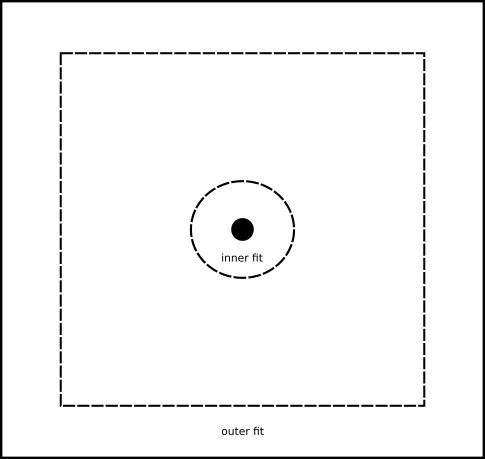
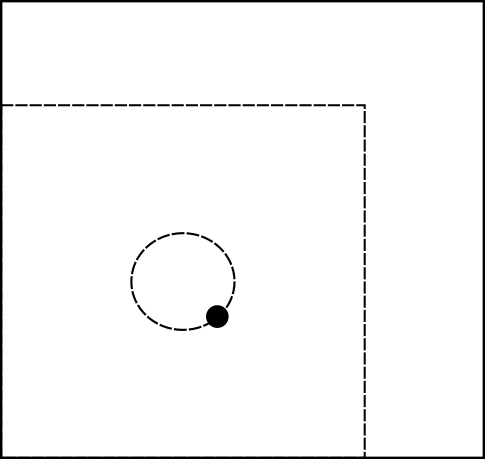
content

diff --git a/docs/agent/cognition/index.html b/docs/agent/cognition/index.html
@@ -3,7 +3,8 @@
 <head>
   <meta charset="UTF-8">
 <meta name="viewport" content="width=device-width, initial-scale=1.0">
-<meta name="description" content="cognition #  topology #  actuator #  fit #  geometry #  spotlight #  hologram #  ">
+<meta name="description" content="cognition #  Cognition explores what makes an agent tick. Like analog clocks, agents can target paths that connect inner fits to outter fits through actuation. The pendulum of a clock swings at an internal frequency which can be compared to an external frequency like the revolution of the earth around the sun.
+Both the spotlight and holographic models of consciousness appear to have partial truth. The spotlight being associated with focused attention and the hologram with diffuse attention across a field.">
 <meta name="theme-color" content="#FFFFFF">
 <meta name="color-scheme" content="light dark"><meta property="og:title" content="" />
 <meta property="og:description" content="" />
@@ -15,7 +16,7 @@
 <link rel="icon" href="/volution/favicon.png" type="image/x-icon">
 <link rel="stylesheet" href="/volution/book.min.82c5dbd23447cee0b4c2aa3ed08ce0961faa40e1fa370eee4f8c9f02e0d46b5f.css" integrity="sha256-gsXb0jRHzuC0wqo&#43;0Izglh&#43;qQOH6Nw7uT4yfAuDUa18=" crossorigin="anonymous">
   <script defer src="/volution/flexsearch.min.js"></script>
-  <script defer src="/volution/en.search.min.68cc1bed1c1454bfbc97956c9b30a424d9decbb2a66f1f1207955e0dc1c5852e.js" integrity="sha256-aMwb7RwUVL&#43;8l5VsmzCkJNney7Kmbx8SB5VeDcHFhS4=" crossorigin="anonymous"></script>
+  <script defer src="/volution/en.search.min.990aa656e69024efd129b4613b7f4ae2cfcf9fdfc4c112afa3d8b263180b62ac.js" integrity="sha256-mQqmVuaQJO/RKbRhO39K4s/Pn9/EwRKvo9iyYxgLYqw=" crossorigin="anonymous"></script>
 <link rel="alternate" type="application/rss+xml" href="https://daylenjbonner.github.io/volution/docs/agent/cognition/index.xml" title="Volution" />
 <!--
 Made with Book Theme
@@ -249,15 +250,19 @@ https://github.com/alex-shpak/hugo-book
   cognition
   <a class="anchor" href="#cognition">#</a>
 </h1>
+<p>Cognition explores what makes an agent tick. Like analog clocks, agents can target paths that connect inner fits to outter fits through actuation. The pendulum of a clock swings at an internal frequency which can be compared to an external frequency like the revolution of the earth around the sun.</p>
+<p>Both the spotlight and holographic models of consciousness appear to have partial truth. The spotlight being associated with focused attention and the hologram with diffuse attention across a field. Agents can both peer into the narrowest scope and meditate upon the vastest horizons.</p>
 <h2 id="topology">
   topology
   <a class="anchor" href="#topology">#</a>
 </h2>
+<p>No cutting or gluing is allowed in topology. So topological distictions may be used to identify various tile states. Gluing together every layer of the record player produces a state called actuation. Fits glue maps to structures in the case of an external fit and frames to points in the case of internal fits.</p>
 <h3 id="actuator">
   actuator
   <a class="anchor" href="#actuator">#</a>
 </h3>
-<p><img src="actuator.png" alt="actuator" /></p>
+<p><img src="actuator.png" alt="actuator" />
+Actuation glues external and internal fits to the agent. This aligns with a state of flow. In the mist of an activity that is engaging yet smooth for you, it may feel as if time is flowing quickly. In volution, actuation or flow is considered a state where everything is connected topologically indicating an alignment between what the agent considers out and in.</p>
 <h3 id="fit">
   fit
   <a class="anchor" href="#fit">#</a>

diff --git a/en.search.min.990aa656e69024efd129b4613b7f4ae2cfcf9fdfc4c112afa3d8b263180b62ac.js b/en.search.min.990aa656e69024efd129b4613b7f4ae2cfcf9fdfc4c112afa3d8b263180b62ac.js
@@ -1,0 +1,1 @@
+'use strict';(function(){const g='/volution/en.search-data.min.b4f3eeb0b88e00d4f9eae793ecce7379f7bae74ff79dce9bb9c8bd5231818a35.json',h=Object.assign({cache:!0},{doc:{id:'id',field:['title','content'],store:['title','href','section']}}),a=document.querySelector('#book-search-input'),b=document.querySelector('#book-search-results');if(!a)return;a.addEventListener('focus',c),a.addEventListener('keyup',d),document.addEventListener('keypress',e);function e(b){if(b.target.value!==void 0)return;if(a===document.activeElement)return;const c=String.fromCharCode(b.charCode);if(!f(c))return;a.focus(),b.preventDefault()}function f(b){const c=a.getAttribute('data-hotkeys')||'';return c.indexOf(b)>=0}function c(){a.removeEventListener('focus',c),a.required=!0,fetch(g).then(a=>a.json()).then(a=>{window.bookSearchIndex=FlexSearch.create('balance',h),window.bookSearchIndex.add(a)}).then(()=>a.required=!1).then(d)}function d(){while(b.firstChild)b.removeChild(b.firstChild);if(!a.value)return;const c=window.bookSearchIndex.search(a.value,10);c.forEach(function(a){const c=i('<li><a href></a><small></small></li>'),d=c.querySelector('a'),e=c.querySelector('small');d.href=a.href,d.textContent=a.title,e.textContent=a.section,b.appendChild(c)})}function i(b){const a=document.createElement('div');return a.innerHTML=b,a.firstChild}})()

diff --git a/docs/agent/index.html b/docs/agent/index.html
@@ -16,7 +16,7 @@ If the agent, frame, and point form a record, then the structure and map make up
 <link rel="icon" href="/volution/favicon.png" type="image/x-icon">
 <link rel="stylesheet" href="/volution/book.min.82c5dbd23447cee0b4c2aa3ed08ce0961faa40e1fa370eee4f8c9f02e0d46b5f.css" integrity="sha256-gsXb0jRHzuC0wqo&#43;0Izglh&#43;qQOH6Nw7uT4yfAuDUa18=" crossorigin="anonymous">
   <script defer src="/volution/flexsearch.min.js"></script>
-  <script defer src="/volution/en.search.min.68cc1bed1c1454bfbc97956c9b30a424d9decbb2a66f1f1207955e0dc1c5852e.js" integrity="sha256-aMwb7RwUVL&#43;8l5VsmzCkJNney7Kmbx8SB5VeDcHFhS4=" crossorigin="anonymous"></script>
+  <script defer src="/volution/en.search.min.990aa656e69024efd129b4613b7f4ae2cfcf9fdfc4c112afa3d8b263180b62ac.js" integrity="sha256-mQqmVuaQJO/RKbRhO39K4s/Pn9/EwRKvo9iyYxgLYqw=" crossorigin="anonymous"></script>
 <link rel="alternate" type="application/rss+xml" href="https://daylenjbonner.github.io/volution/docs/agent/index.xml" title="Volution" />
 <!--
 Made with Book Theme

diff --git a/index.html b/index.html
@@ -17,7 +17,7 @@ what is volution? #  dialectic #  As mentioned above, volution is conscidered a 
 <link rel="icon" href="/volution/favicon.png" type="image/x-icon">
 <link rel="stylesheet" href="/volution/book.min.82c5dbd23447cee0b4c2aa3ed08ce0961faa40e1fa370eee4f8c9f02e0d46b5f.css" integrity="sha256-gsXb0jRHzuC0wqo&#43;0Izglh&#43;qQOH6Nw7uT4yfAuDUa18=" crossorigin="anonymous">
   <script defer src="/volution/flexsearch.min.js"></script>
-  <script defer src="/volution/en.search.min.68cc1bed1c1454bfbc97956c9b30a424d9decbb2a66f1f1207955e0dc1c5852e.js" integrity="sha256-aMwb7RwUVL&#43;8l5VsmzCkJNney7Kmbx8SB5VeDcHFhS4=" crossorigin="anonymous"></script>
+  <script defer src="/volution/en.search.min.990aa656e69024efd129b4613b7f4ae2cfcf9fdfc4c112afa3d8b263180b62ac.js" integrity="sha256-mQqmVuaQJO/RKbRhO39K4s/Pn9/EwRKvo9iyYxgLYqw=" crossorigin="anonymous"></script>
 <link rel="alternate" type="application/rss+xml" href="https://daylenjbonner.github.io/volution/index.xml" title="Volution" />
 <!--
 Made with Book Theme

diff --git a/docs/ground/cause/index.html b/docs/ground/cause/index.html
@@ -15,7 +15,7 @@
 <link rel="icon" href="/volution/favicon.png" type="image/x-icon">
 <link rel="stylesheet" href="/volution/book.min.82c5dbd23447cee0b4c2aa3ed08ce0961faa40e1fa370eee4f8c9f02e0d46b5f.css" integrity="sha256-gsXb0jRHzuC0wqo&#43;0Izglh&#43;qQOH6Nw7uT4yfAuDUa18=" crossorigin="anonymous">
   <script defer src="/volution/flexsearch.min.js"></script>
-  <script defer src="/volution/en.search.min.68cc1bed1c1454bfbc97956c9b30a424d9decbb2a66f1f1207955e0dc1c5852e.js" integrity="sha256-aMwb7RwUVL&#43;8l5VsmzCkJNney7Kmbx8SB5VeDcHFhS4=" crossorigin="anonymous"></script>
+  <script defer src="/volution/en.search.min.990aa656e69024efd129b4613b7f4ae2cfcf9fdfc4c112afa3d8b263180b62ac.js" integrity="sha256-mQqmVuaQJO/RKbRhO39K4s/Pn9/EwRKvo9iyYxgLYqw=" crossorigin="anonymous"></script>
 <link rel="alternate" type="application/rss+xml" href="https://daylenjbonner.github.io/volution/docs/ground/cause/index.xml" title="Volution" />
 <!--
 Made with Book Theme

diff --git a/docs/ground/path/index.html b/docs/ground/path/index.html
@@ -15,7 +15,7 @@
 <link rel="icon" href="/volution/favicon.png" type="image/x-icon">
 <link rel="stylesheet" href="/volution/book.min.82c5dbd23447cee0b4c2aa3ed08ce0961faa40e1fa370eee4f8c9f02e0d46b5f.css" integrity="sha256-gsXb0jRHzuC0wqo&#43;0Izglh&#43;qQOH6Nw7uT4yfAuDUa18=" crossorigin="anonymous">
   <script defer src="/volution/flexsearch.min.js"></script>
-  <script defer src="/volution/en.search.min.68cc1bed1c1454bfbc97956c9b30a424d9decbb2a66f1f1207955e0dc1c5852e.js" integrity="sha256-aMwb7RwUVL&#43;8l5VsmzCkJNney7Kmbx8SB5VeDcHFhS4=" crossorigin="anonymous"></script>
+  <script defer src="/volution/en.search.min.990aa656e69024efd129b4613b7f4ae2cfcf9fdfc4c112afa3d8b263180b62ac.js" integrity="sha256-mQqmVuaQJO/RKbRhO39K4s/Pn9/EwRKvo9iyYxgLYqw=" crossorigin="anonymous"></script>
 <link rel="alternate" type="application/rss+xml" href="https://daylenjbonner.github.io/volution/docs/ground/path/index.xml" title="Volution" />
 <!--
 Made with Book Theme

diff --git a/docs/agent/type/index.html b/docs/agent/type/index.html
@@ -15,7 +15,7 @@
 <link rel="icon" href="/volution/favicon.png" type="image/x-icon">
 <link rel="stylesheet" href="/volution/book.min.82c5dbd23447cee0b4c2aa3ed08ce0961faa40e1fa370eee4f8c9f02e0d46b5f.css" integrity="sha256-gsXb0jRHzuC0wqo&#43;0Izglh&#43;qQOH6Nw7uT4yfAuDUa18=" crossorigin="anonymous">
   <script defer src="/volution/flexsearch.min.js"></script>
-  <script defer src="/volution/en.search.min.68cc1bed1c1454bfbc97956c9b30a424d9decbb2a66f1f1207955e0dc1c5852e.js" integrity="sha256-aMwb7RwUVL&#43;8l5VsmzCkJNney7Kmbx8SB5VeDcHFhS4=" crossorigin="anonymous"></script>
+  <script defer src="/volution/en.search.min.990aa656e69024efd129b4613b7f4ae2cfcf9fdfc4c112afa3d8b263180b62ac.js" integrity="sha256-mQqmVuaQJO/RKbRhO39K4s/Pn9/EwRKvo9iyYxgLYqw=" crossorigin="anonymous"></script>
 <link rel="alternate" type="application/rss+xml" href="https://daylenjbonner.github.io/volution/docs/agent/type/index.xml" title="Volution" />
 <!--
 Made with Book Theme

diff --git a/docs/ground/index.html b/docs/ground/index.html
@@ -15,7 +15,7 @@
 <link rel="icon" href="/volution/favicon.png" type="image/x-icon">
 <link rel="stylesheet" href="/volution/book.min.82c5dbd23447cee0b4c2aa3ed08ce0961faa40e1fa370eee4f8c9f02e0d46b5f.css" integrity="sha256-gsXb0jRHzuC0wqo&#43;0Izglh&#43;qQOH6Nw7uT4yfAuDUa18=" crossorigin="anonymous">
   <script defer src="/volution/flexsearch.min.js"></script>
-  <script defer src="/volution/en.search.min.68cc1bed1c1454bfbc97956c9b30a424d9decbb2a66f1f1207955e0dc1c5852e.js" integrity="sha256-aMwb7RwUVL&#43;8l5VsmzCkJNney7Kmbx8SB5VeDcHFhS4=" crossorigin="anonymous"></script>
+  <script defer src="/volution/en.search.min.990aa656e69024efd129b4613b7f4ae2cfcf9fdfc4c112afa3d8b263180b62ac.js" integrity="sha256-mQqmVuaQJO/RKbRhO39K4s/Pn9/EwRKvo9iyYxgLYqw=" crossorigin="anonymous"></script>
 <link rel="alternate" type="application/rss+xml" href="https://daylenjbonner.github.io/volution/docs/ground/index.xml" title="Volution" />
 <!--
 Made with Book Theme

diff --git a/categories/index.html b/categories/index.html
@@ -15,7 +15,7 @@
 <link rel="icon" href="/volution/favicon.png" type="image/x-icon">
 <link rel="stylesheet" href="/volution/book.min.82c5dbd23447cee0b4c2aa3ed08ce0961faa40e1fa370eee4f8c9f02e0d46b5f.css" integrity="sha256-gsXb0jRHzuC0wqo&#43;0Izglh&#43;qQOH6Nw7uT4yfAuDUa18=" crossorigin="anonymous">
   <script defer src="/volution/flexsearch.min.js"></script>
-  <script defer src="/volution/en.search.min.68cc1bed1c1454bfbc97956c9b30a424d9decbb2a66f1f1207955e0dc1c5852e.js" integrity="sha256-aMwb7RwUVL&#43;8l5VsmzCkJNney7Kmbx8SB5VeDcHFhS4=" crossorigin="anonymous"></script>
+  <script defer src="/volution/en.search.min.990aa656e69024efd129b4613b7f4ae2cfcf9fdfc4c112afa3d8b263180b62ac.js" integrity="sha256-mQqmVuaQJO/RKbRhO39K4s/Pn9/EwRKvo9iyYxgLYqw=" crossorigin="anonymous"></script>
 <link rel="alternate" type="application/rss+xml" href="https://daylenjbonner.github.io/volution/categories/index.xml" title="Volution" />
 <!--
 Made with Book Theme

diff --git a/docs/index.html b/docs/index.html
@@ -15,7 +15,7 @@
 <link rel="icon" href="/volution/favicon.png" type="image/x-icon">
 <link rel="stylesheet" href="/volution/book.min.82c5dbd23447cee0b4c2aa3ed08ce0961faa40e1fa370eee4f8c9f02e0d46b5f.css" integrity="sha256-gsXb0jRHzuC0wqo&#43;0Izglh&#43;qQOH6Nw7uT4yfAuDUa18=" crossorigin="anonymous">
   <script defer src="/volution/flexsearch.min.js"></script>
-  <script defer src="/volution/en.search.min.68cc1bed1c1454bfbc97956c9b30a424d9decbb2a66f1f1207955e0dc1c5852e.js" integrity="sha256-aMwb7RwUVL&#43;8l5VsmzCkJNney7Kmbx8SB5VeDcHFhS4=" crossorigin="anonymous"></script>
+  <script defer src="/volution/en.search.min.990aa656e69024efd129b4613b7f4ae2cfcf9fdfc4c112afa3d8b263180b62ac.js" integrity="sha256-mQqmVuaQJO/RKbRhO39K4s/Pn9/EwRKvo9iyYxgLYqw=" crossorigin="anonymous"></script>
 <link rel="alternate" type="application/rss+xml" href="https://daylenjbonner.github.io/volution/docs/index.xml" title="Volution" />
 <!--
 Made with Book Theme

diff --git a/tags/index.html b/tags/index.html
@@ -15,7 +15,7 @@
 <link rel="icon" href="/volution/favicon.png" type="image/x-icon">
 <link rel="stylesheet" href="/volution/book.min.82c5dbd23447cee0b4c2aa3ed08ce0961faa40e1fa370eee4f8c9f02e0d46b5f.css" integrity="sha256-gsXb0jRHzuC0wqo&#43;0Izglh&#43;qQOH6Nw7uT4yfAuDUa18=" crossorigin="anonymous">
   <script defer src="/volution/flexsearch.min.js"></script>
-  <script defer src="/volution/en.search.min.68cc1bed1c1454bfbc97956c9b30a424d9decbb2a66f1f1207955e0dc1c5852e.js" integrity="sha256-aMwb7RwUVL&#43;8l5VsmzCkJNney7Kmbx8SB5VeDcHFhS4=" crossorigin="anonymous"></script>
+  <script defer src="/volution/en.search.min.990aa656e69024efd129b4613b7f4ae2cfcf9fdfc4c112afa3d8b263180b62ac.js" integrity="sha256-mQqmVuaQJO/RKbRhO39K4s/Pn9/EwRKvo9iyYxgLYqw=" crossorigin="anonymous"></script>
 <link rel="alternate" type="application/rss+xml" href="https://daylenjbonner.github.io/volution/tags/index.xml" title="Volution" />
 <!--
 Made with Book Theme

diff --git a/404.html b/404.html
@@ -16,7 +16,7 @@
 <link rel="icon" href="/volution/favicon.png" type="image/x-icon">
 <link rel="stylesheet" href="/volution/book.min.82c5dbd23447cee0b4c2aa3ed08ce0961faa40e1fa370eee4f8c9f02e0d46b5f.css" integrity="sha256-gsXb0jRHzuC0wqo&#43;0Izglh&#43;qQOH6Nw7uT4yfAuDUa18=" crossorigin="anonymous">
   <script defer src="/volution/flexsearch.min.js"></script>
-  <script defer src="/volution/en.search.min.68cc1bed1c1454bfbc97956c9b30a424d9decbb2a66f1f1207955e0dc1c5852e.js" integrity="sha256-aMwb7RwUVL&#43;8l5VsmzCkJNney7Kmbx8SB5VeDcHFhS4=" crossorigin="anonymous"></script>
+  <script defer src="/volution/en.search.min.990aa656e69024efd129b4613b7f4ae2cfcf9fdfc4c112afa3d8b263180b62ac.js" integrity="sha256-mQqmVuaQJO/RKbRhO39K4s/Pn9/EwRKvo9iyYxgLYqw=" crossorigin="anonymous"></script>
 <!--
 Made with Book Theme
 https://github.com/alex-shpak/hugo-book
